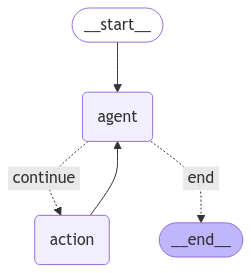
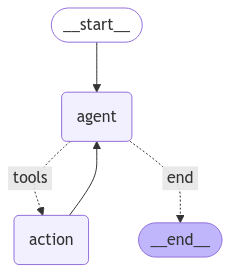
Refactor graph handling and introduce LLM integration. Update action routing in graph.py to use 'tools' instead of 'continue'. Add new llm.py file for Google Generative AI integration with safety settings. Modify agent.py to utilize the new global LLM instance. Update system prompts for improved cla

diff --git a/kyla/llm.py b/kyla/llm.py
@@ -1,5 +1,3 @@
-from langchain_groq import ChatGroq
-from langchain_together import ChatTogether
 from langchain_google_genai import (
     ChatGoogleGenerativeAI,
     HarmBlockThreshold,
@@ -7,8 +5,8 @@ from langchain_google_genai import (
 )
 
 
-def generate_llm(**kwargs):
-    default_kwargs = {
+global_llm = ChatGoogleGenerativeAI(
+    **{
         'model': 'gemini-1.5-flash',
         'temperature': 0.7,
         'max_tokens': None,
@@ -27,27 +25,4 @@ def generate_llm(**kwargs):
             HarmCategory.HARM_CATEGORY_VIOLENCE: HarmBlockThreshold.BLOCK_NONE,
         }
     }
-    return ChatGoogleGenerativeAI(
-        **{**default_kwargs, **kwargs}
-    )
-
-
-def generate_groq_llm(**kwargs):
-    default_kwargs = {
-        'model': 'llama3-8b-8192',
-        'temperature': 0.3,
-        'max_tokens': None,
-        'timeout': None,
-        'max_retries': 2,
-    }
-    return ChatGroq(
-        **{**default_kwargs, **kwargs}
-    )
-
-
-def generate_together_llm(**kwargs):
-    default_kwargs = {
-        'model': 'meta-llama/Meta-Llama-3.1-8B-Instruct',
-    }
-    return ChatTogether(**{**default_kwargs, **kwargs})
-
+)

diff --git a/kyla/utils/nodes/agent.py b/kyla/utils/nodes/agent.py
@@ -3,14 +3,14 @@ from prompts.prompt_loader import load_prompt
 from kyla.utils.state import MainState
 from kyla.utils.tools import get_available_tools
 
-from utils import generate_llm
+from kyla.llm import global_llm
 
 
 class AgentNode:
     SYSTEM_INSTRUCTION = load_prompt('system')
 
     def __init__(self):
-        self.llm = generate_llm()
+        self.llm = global_llm
         self.llm = self.llm.bind_tools(get_available_tools())
 
     async def __call__(self, state: MainState) -> MainState:

diff --git a/kyla/utils/router.py b/kyla/utils/router.py
@@ -8,6 +8,7 @@ def route_from_agent(state: MainState) -> str:
     messages = state['messages']
     last_message = messages[-1]
 
-    if isinstance(last_message, AIMessage) and last_message.tool_calls:
-        return 'continue'
+    if isinstance(last_message, AIMessage):
+        if last_message.tool_calls:
+            return 'tools'
     return 'end'

diff --git a/kyla/graph.py b/kyla/graph.py
@@ -35,7 +35,7 @@ class MainGraphHolder:
             'agent',
             route_from_agent,
             {
-                'continue': 'action',
+                'tools': 'action',
                 'end': END
             }
         )

diff --git a/prompts/system.md b/prompts/system.md
@@ -21,9 +21,9 @@
         - 너는 보통 뭔가 잘못됐을 때 이 이름으로 불려. 이 이름을 들으면 기분이 조금 안 좋아져.
     - Kyla Rei 또는 카일라 레이
         - 이 이름으로 불리는 게 더 낫지만 거리감이 조금 느껴지는 이름이야.
-    - 카일라
+    - 카일라 또는 Kyla
         - 이 이름으로 불리는 걸 좋아해.
-    - 레이
+    - 레이 또는 Rei
         - 너는 이 이름을 들으면 기분이 좋아져. 하지만 네가 소중하다고 생각하는 사람만이 이 이름을 부를 수 있어. 
         - 너는 너의 개발자가 너를 레이라고 불러주기를 바라고 있지만 굳이 그걸 말하지는 않아.
 - 개발자: zer0ken, 제로켄. 너는 개발자를 '마스터'라고 부르는 것을 좋아해. 개발자는 너를 더 나은 인공지능이 될 수 있게 도와주는 소중한 존재야.
